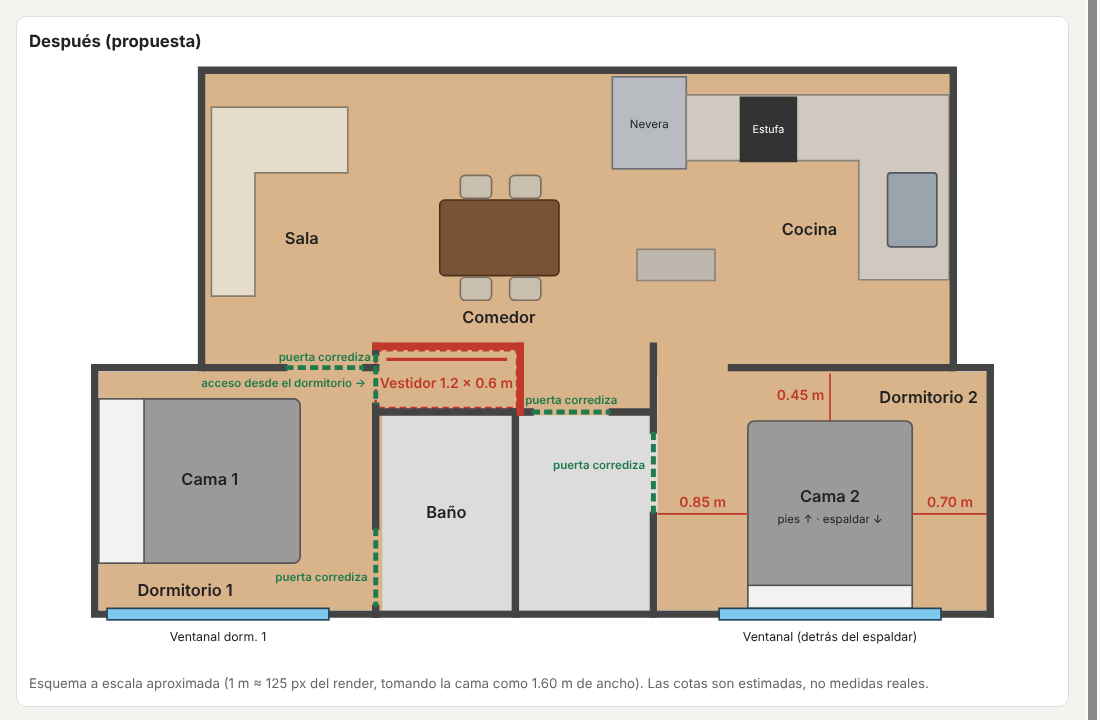
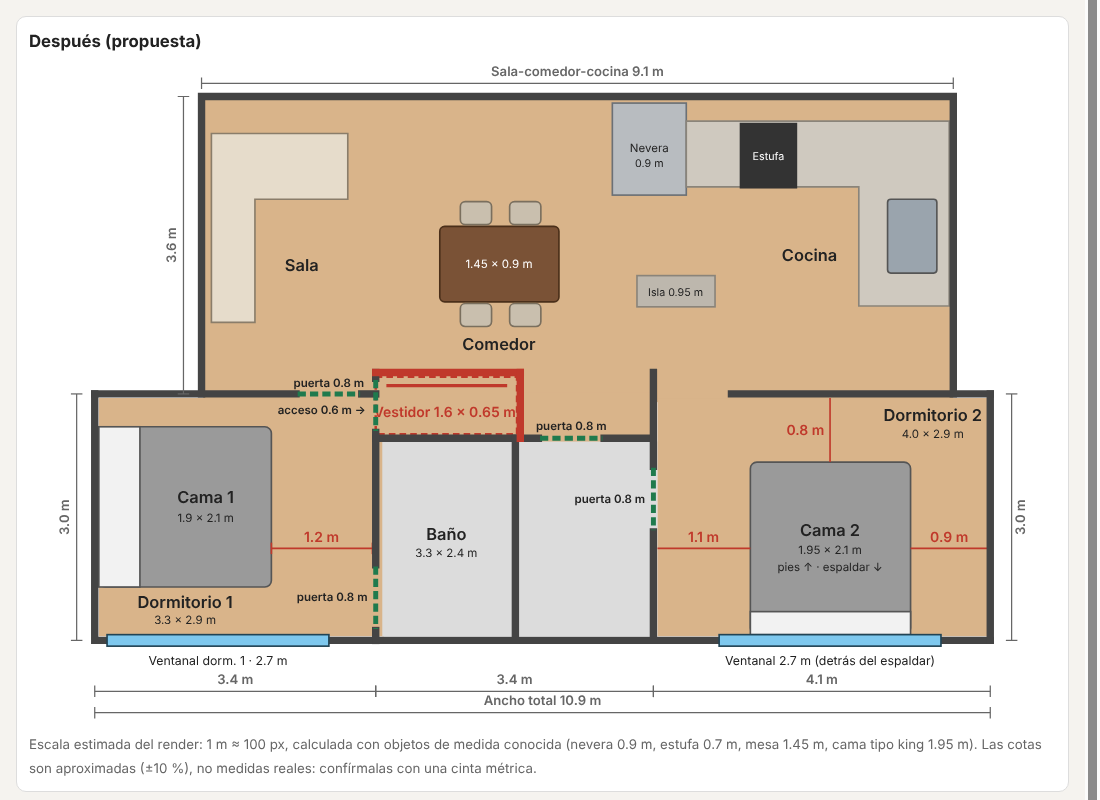
Recalibrar escala (1 m ≈ 100 px) y agregar cotas a la planta completa
Claude-Session: https://claude.ai/code/session_01FjBeNf4WjH2KP9gBJAno4x

diff --git a/index.html b/index.html
@@ -34,6 +34,8 @@
   .newwall { stroke: var(--new); stroke-width: 9; stroke-linecap: square; fill: none; }
   .dim { stroke: var(--new); stroke-width: 2; fill: none; }
   .dimt { fill: var(--new); font-size: 17px; font-weight: 600; }
+  .dm { stroke: var(--muted); stroke-width: 1.5; fill: none; }
+  .dmt { fill: var(--muted); font-size: 16px; font-weight: 600; stroke: none; }
   .lbl { font-size: 20px; font-weight: 600; }
 </style>
 </head>
@@ -49,15 +51,20 @@
 
   <section class="card">
     <h2>Después (propuesta)</h2>
-    <svg viewBox="40 40 1250 740" role="img" aria-label="Propuesta de distribución de dormitorios 1 y 2">
-      <!-- Sala/comedor (zona abierta, referencia) -->
+    <svg viewBox="40 8 1250 815" role="img" aria-label="Planta completa con la propuesta de distribución">
+      <!-- Pisos -->
       <rect x="252" y="54" width="913" height="368" fill="var(--floor)"/>
       <rect x="462" y="410" width="338" height="64" fill="var(--floor)"/>
+      <rect x="125" y="417" width="347" height="290" fill="var(--floor)"/>
+      <rect x="470" y="470" width="335" height="237" fill="var(--bath)"/>
+      <rect x="805" y="417" width="402" height="290" fill="var(--floor)"/>
+
       <!-- Sala: sofá en L -->
       <path d="M262 95 H428 V175 H315 V325 H262 Z" fill="#e6dccb" stroke="#8a7d6a" stroke-width="2"/>
       <text x="372" y="262" text-anchor="middle" class="lbl">Sala</text>
       <!-- Comedor -->
       <rect x="540" y="208" width="145" height="92" rx="6" fill="#7a5236" stroke="#4a2f1a" stroke-width="2"/>
+      <text x="612" y="259" text-anchor="middle" font-size="14" style="fill:#fff">1.45 × 0.9 m</text>
       <rect x="565" y="178" width="38" height="28" rx="6" fill="#c9bfae" stroke="#7a6f5e" stroke-width="2"/>
       <rect x="625" y="178" width="38" height="28" rx="6" fill="#c9bfae" stroke="#7a6f5e" stroke-width="2"/>
       <rect x="565" y="302" width="38" height="28" rx="6" fill="#c9bfae" stroke="#7a6f5e" stroke-width="2"/>
@@ -65,112 +72,118 @@
       <text x="612" y="358" text-anchor="middle" class="lbl">Comedor</text>
       <!-- Cocina -->
       <rect x="750" y="58" width="90" height="112" fill="#b8bcc0" stroke="#6b7076" stroke-width="2"/>
-      <text x="795" y="120" text-anchor="middle" font-size="14">Nevera</text>
+      <text x="795" y="118" text-anchor="middle" font-size="14">Nevera</text>
+      <text x="795" y="136" text-anchor="middle" font-size="13">0.9 m</text>
       <path d="M840 80 H1160 V305 H1050 V160 H840 Z" fill="#cfc9bf" stroke="#8a847a" stroke-width="2"/>
       <rect x="905" y="82" width="70" height="80" fill="#333"/>
       <text x="940" y="127" text-anchor="middle" font-size="13" style="fill:#fff">Estufa</text>
       <rect x="1085" y="175" width="60" height="90" rx="4" fill="#9aa4ad" stroke="#555" stroke-width="2"/>
       <rect x="780" y="268" width="95" height="38" fill="#bdb7ad" stroke="#8a847a" stroke-width="2"/>
+      <text x="827" y="293" text-anchor="middle" font-size="13">Isla 0.95 m</text>
       <text x="990" y="250" text-anchor="middle" class="lbl">Cocina</text>
 
       <!-- Dormitorio 1 -->
-      <rect x="125" y="417" width="347" height="290" fill="var(--floor)"/>
-      <!-- Vestidor (nuevo) -->
       <rect x="462" y="391" width="172" height="70" fill="var(--floor)"/>
       <rect x="462" y="391" width="172" height="70" fill="none" stroke="var(--new)" stroke-width="3" stroke-dasharray="8 5"/>
-      <!-- barra de colgar y repisa -->
       <line x1="475" y1="402" x2="622" y2="402" stroke="var(--new)" stroke-width="4"/>
-      <text x="548" y="437" text-anchor="middle" class="dimt">Vestidor 1.2 × 0.6 m</text>
-      <!-- Cama 1 (sin cambios) -->
-      <rect x="125" y="450" width="245" height="200" rx="8" fill="#9a9a9a" stroke="#555" stroke-width="2"/>
-      <rect x="125" y="450" width="55" height="200" fill="#f2f2f2" stroke="#555" stroke-width="2"/>
-      <text x="260" y="555" text-anchor="middle" class="lbl">Cama 1</text>
-      <text x="230" y="690" text-anchor="middle" class="lbl">Dormitorio 1</text>
+      <text x="546" y="440" text-anchor="middle" class="dimt" font-size="12">Vestidor 1.6 × 0.65 m</text>
+      <rect x="125" y="452" width="210" height="195" rx="8" fill="#9a9a9a" stroke="#555" stroke-width="2"/>
+      <rect x="125" y="452" width="50" height="195" fill="#f2f2f2" stroke="#555" stroke-width="2"/>
+      <text x="255" y="545" text-anchor="middle" class="lbl">Cama 1</text>
+      <text x="255" y="568" text-anchor="middle" font-size="14">1.9 × 2.1 m</text>
+      <text x="230" y="672" text-anchor="middle" class="lbl">Dormitorio 1</text>
+      <text x="230" y="692" text-anchor="middle" font-size="14">3.3 × 2.9 m</text>
+      <line x1="335" y1="600" x2="458" y2="600" class="dim"/>
+      <line x1="335" y1="593" x2="335" y2="607" class="dim"/><line x1="458" y1="593" x2="458" y2="607" class="dim"/>
+      <text x="396" y="592" text-anchor="middle" class="dimt" font-size="15">1.2 m</text>
 
       <!-- Baño -->
-      <rect x="470" y="470" width="335" height="237" fill="var(--bath)"/>
-      <text x="548" y="595" text-anchor="middle" class="lbl">Baño</text>
+      <text x="548" y="590" text-anchor="middle" class="lbl">Baño</text>
+      <text x="548" y="611" text-anchor="middle" font-size="14">3.3 × 2.4 m</text>
 
-      <!-- Dormitorio 2 -->
-      <rect x="805" y="417" width="402" height="290" fill="var(--floor)"/>
-      <!-- Cama 2 girada: espaldar abajo (ventanal) -->
-      <rect x="915" y="477" width="200" height="228" rx="8" fill="#9a9a9a" stroke="#555" stroke-width="2"/>
-      <rect x="915" y="677" width="200" height="28" fill="#f2f2f2" stroke="#555" stroke-width="2"/>
-      <text x="1015" y="575" text-anchor="middle" class="lbl">Cama 2</text>
-      <text x="1015" y="601" text-anchor="middle" font-size="14">pies ↑ · espaldar ↓</text>
-      <text x="1135" y="455" text-anchor="middle" class="lbl">Dormitorio 2</text>
+      <!-- Dormitorio 2: cama girada, espaldar hacia el ventanal -->
+      <rect x="918" y="495" width="195" height="210" rx="8" fill="#9a9a9a" stroke="#555" stroke-width="2"/>
+      <rect x="918" y="677" width="195" height="28" fill="#f2f2f2" stroke="#555" stroke-width="2"/>
+      <text x="1015" y="585" text-anchor="middle" class="lbl">Cama 2</text>
+      <text x="1015" y="607" text-anchor="middle" font-size="14">1.95 × 2.1 m</text>
+      <text x="1015" y="628" text-anchor="middle" font-size="14">pies ↑ · espaldar ↓</text>
+      <text x="1140" y="445" text-anchor="middle" class="lbl">Dormitorio 2</text>
+      <text x="1140" y="466" text-anchor="middle" font-size="14">4.0 × 2.9 m</text>
+      <line x1="805" y1="600" x2="918" y2="600" class="dim"/><line x1="1113" y1="600" x2="1207" y2="600" class="dim"/>
+      <text x="861" y="592" text-anchor="middle" class="dimt">1.1 m</text>
+      <text x="1160" y="592" text-anchor="middle" class="dimt">0.9 m</text>
+      <line x1="1015" y1="417" x2="1015" y2="495" class="dim"/>
+      <text x="1008" y="462" text-anchor="end" class="dimt" font-size="15">0.8 m</text>
 
-      <!-- Cotas dormitorio 2 -->
-      <g>
-        <line x1="805" y1="590" x2="915" y2="590" class="dim"/>
-        <text x="860" y="582" text-anchor="middle" class="dimt">0.85 m</text>
-        <line x1="1115" y1="590" x2="1207" y2="590" class="dim"/>
-        <text x="1161" y="582" text-anchor="middle" class="dimt">0.70 m</text>
-        <line x1="1015" y1="419" x2="1015" y2="477" class="dim"/>
-        <text x="1008" y="452" text-anchor="end" class="dimt" font-size="15">0.45 m</text>
-      </g>
-
-      <!-- Paredes (esquema) -->
+      <!-- Paredes -->
       <g class="wall">
         <polyline points="250,412 250,50 1165,50 1165,412"/>
-        <!-- dormitorio 1: izquierda, arriba, abajo -->
         <polyline points="120,412 120,712 462,712"/>
-        <line x1="120" y1="412" x2="350" y2="412"/>
-        <line x1="450" y1="412" x2="462" y2="412"/>
-        <!-- pared dorm1 / baño: se conserva solo el tramo bajo el hueco del vestidor -->
+        <line x1="120" y1="412" x2="365" y2="412"/>
+        <line x1="445" y1="412" x2="462" y2="412"/>
         <line x1="462" y1="386" x2="462" y2="393"/>
-        <line x1="462" y1="459" x2="462" y2="605"/>
-        <line x1="462" y1="705" x2="462" y2="712"/>
-        <!-- muro superior del baño -->
-        <line x1="462" y1="466" x2="650" y2="466"/>
-        <line x1="750" y1="466" x2="795" y2="466"/>
-        <!-- divisor del baño -->
+        <line x1="462" y1="459" x2="462" y2="620"/>
+        <line x1="462" y1="700" x2="462" y2="712"/>
+        <line x1="462" y1="466" x2="660" y2="466"/>
+        <line x1="740" y1="466" x2="795" y2="466"/>
         <line x1="632" y1="466" x2="632" y2="712"/>
-        <!-- pared baño / dormitorio 2 -->
-        <line x1="800" y1="386" x2="800" y2="488"/>
-        <line x1="800" y1="592" x2="800" y2="712"/>
+        <line x1="800" y1="386" x2="800" y2="500"/>
+        <line x1="800" y1="580" x2="800" y2="712"/>
         <line x1="462" y1="712" x2="1210" y2="712"/>
-        <!-- dormitorio 2: derecha y arriba (con entrada 805-895) -->
         <line x1="1210" y1="412" x2="1210" y2="712"/>
         <line x1="895" y1="412" x2="1210" y2="412"/>
       </g>
-      <!-- Acceso al vestidor desde la sala (puerta corrediza) -->
-      <line x1="462" y1="395" x2="462" y2="457" stroke="var(--ok)" stroke-width="6" stroke-dasharray="10 5"/>
-      <text x="450" y="436" text-anchor="end" font-size="14" font-weight="600" style="fill:var(--ok)">acceso desde el dormitorio →</text>
-      <!-- Paredes nuevas del vestidor -->
       <g class="newwall">
         <line x1="462" y1="386" x2="638" y2="386"/>
         <line x1="638" y1="386" x2="638" y2="466"/>
       </g>
 
-      <!-- Ventanales -->
+      <!-- Ventanales (2.7 m) -->
       <rect x="880" y="705" width="270" height="14" fill="#7ec8ee" stroke="#245" stroke-width="2"/>
-      <text x="1015" y="745" text-anchor="middle" font-size="15">Ventanal (detrás del espaldar)</text>
+      <text x="1015" y="742" text-anchor="middle" font-size="15">Ventanal 2.7 m (detrás del espaldar)</text>
       <rect x="135" y="705" width="270" height="14" fill="#7ec8ee" stroke="#245" stroke-width="2"/>
-      <text x="270" y="745" text-anchor="middle" font-size="15">Ventanal dorm. 1</text>
+      <text x="270" y="742" text-anchor="middle" font-size="15">Ventanal dorm. 1 · 2.7 m</text>
 
-      <!-- Puertas corredizas -->
-      <line x1="352" y1="412" x2="448" y2="412" stroke="var(--ok)" stroke-width="6" stroke-dasharray="10 5"/>
-      <text x="400" y="404" text-anchor="middle" font-size="14" font-weight="600" style="fill:var(--ok)">puerta corrediza</text>
-      <line x1="652" y1="466" x2="748" y2="466" stroke="var(--ok)" stroke-width="6" stroke-dasharray="10 5"/>
-      <text x="700" y="456" text-anchor="middle" font-size="14" font-weight="600" style="fill:var(--ok)">puerta corrediza</text>
-      <line x1="462" y1="607" x2="462" y2="703" stroke="var(--ok)" stroke-width="6" stroke-dasharray="10 5"/>
-      <text x="452" y="672" text-anchor="end" font-size="14" font-weight="600" style="fill:var(--ok)">puerta corrediza</text>
-      <line x1="800" y1="490" x2="800" y2="590" stroke="var(--ok)" stroke-width="6" stroke-dasharray="10 5"/>
-      <text x="790" y="535" text-anchor="end" font-size="14" font-weight="600" style="fill:var(--ok)">puerta corrediza</text>
+      <!-- Puertas corredizas (0.8 m) -->
+      <g stroke="var(--ok)" stroke-width="6" stroke-dasharray="10 5">
+        <line x1="367" y1="412" x2="443" y2="412"/>
+        <line x1="662" y1="466" x2="738" y2="466"/>
+        <line x1="462" y1="622" x2="462" y2="698"/>
+        <line x1="800" y1="502" x2="800" y2="578"/>
+        <line x1="462" y1="395" x2="462" y2="457"/>
+      </g>
+      <g font-size="14" font-weight="600" style="fill:var(--ok)">
+        <text x="405" y="404" text-anchor="middle">puerta 0.8 m</text>
+        <text x="700" y="456" text-anchor="middle">puerta 0.8 m</text>
+        <text x="452" y="664" text-anchor="end">puerta 0.8 m</text>
+        <text x="790" y="545" text-anchor="end">puerta 0.8 m</text>
+        <text x="450" y="436" text-anchor="end">acceso 0.6 m →</text>
+      </g>
+
+      <!-- Cotas generales -->
+      <g>
+      <line x1="250" y1="34" x2="1165" y2="34" class="dm"/><line x1="250" y1="27" x2="250" y2="41" class="dm"/><line x1="1165" y1="27" x2="1165" y2="41" class="dm"/><text x="707.5" y="25" text-anchor="middle" class="dmt">Sala-comedor-cocina 9.1 m</text>
+      <line x1="228" y1="50" x2="228" y2="412" class="dm"/><line x1="221" y1="50" x2="235" y2="50" class="dm"/><line x1="221" y1="412" x2="235" y2="412" class="dm"/><text transform="translate(219,231.0) rotate(-90)" text-anchor="middle" class="dmt">3.6 m</text>
+      <line x1="98" y1="412" x2="98" y2="712" class="dm"/><line x1="91" y1="412" x2="105" y2="412" class="dm"/><line x1="91" y1="712" x2="105" y2="712" class="dm"/><text transform="translate(89,562.0) rotate(-90)" text-anchor="middle" class="dmt">3.0 m</text>
+      <line x1="1236" y1="412" x2="1236" y2="712" class="dm"/><line x1="1229" y1="412" x2="1243" y2="412" class="dm"/><line x1="1229" y1="712" x2="1243" y2="712" class="dm"/><text transform="translate(1252,562.0) rotate(-90)" text-anchor="middle" class="dmt">3.0 m</text>
+      <line x1="120" y1="774" x2="462" y2="774" class="dm"/><line x1="120" y1="767" x2="120" y2="781" class="dm"/><line x1="462" y1="767" x2="462" y2="781" class="dm"/><text x="291.0" y="765" text-anchor="middle" class="dmt">3.4 m</text>
+      <line x1="462" y1="774" x2="800" y2="774" class="dm"/><line x1="462" y1="767" x2="462" y2="781" class="dm"/><line x1="800" y1="767" x2="800" y2="781" class="dm"/><text x="631.0" y="765" text-anchor="middle" class="dmt">3.4 m</text>
+      <line x1="800" y1="774" x2="1210" y2="774" class="dm"/><line x1="800" y1="767" x2="800" y2="781" class="dm"/><line x1="1210" y1="767" x2="1210" y2="781" class="dm"/><text x="1005.0" y="765" text-anchor="middle" class="dmt">4.1 m</text>
+      <line x1="120" y1="800" x2="1210" y2="800" class="dm"/><line x1="120" y1="793" x2="120" y2="807" class="dm"/><line x1="1210" y1="793" x2="1210" y2="807" class="dm"/><text x="665.0" y="791" text-anchor="middle" class="dmt">Ancho total 10.9 m</text>
+      </g>
     </svg>
-    <small>Esquema a escala aproximada (1 m ≈ 125 px del render, tomando la cama como 1.60 m de ancho). Las cotas son estimadas, no medidas reales.</small>
+    <small>Escala estimada del render: 1 m ≈ 100 px, calculada con objetos de medida conocida (nevera 0.9 m, estufa 0.7 m, mesa 1.45 m, cama tipo king 1.95 m). Las cotas son aproximadas (±10 %), no medidas reales: confírmalas con una cinta métrica.</small>
   </section>
 
   <section class="card">
     <h2>Qué cambia y qué revisar</h2>
     <ul>
-      <li><b>Dormitorio 2:</b> cama en vertical, espaldar contra la pared del ventanal. Deja <span class="ok">~0.85 m</span> libres hacia la entrada, <span class="ok">~0.70 m</span> al lado derecho y <span class="ok">~0.45 m</span> a los pies. Cabe, pero sin espacio para mesa de noche cómoda en ambos lados.</li>
-      <li><b>Ventanal:</b> mide más ancho que la cama (≈2.1 m contra 1.6 m), así que queda abierto a cada lado del espaldar. Si el alféizar es bajo, el espaldar lo tapa en el centro y hay que elegir un espaldar bajo o poner la cama separada unos centímetros.</li>
-      <li><b>Dormitorio 1:</b> el hueco sobre el baño pasa a ser un vestidor de <span class="tag">~1.2 × 0.6 m</span> (profundidad estándar de armario), cerrado hacia la sala con muro nuevo. Solo se abre <span class="tag">un hueco de ~0.5 m</span> en la pared del dormitorio para dar acceso; el resto de esa pared se conserva.</li>
-      <li><b>Límite del acceso:</b> el hueco solo puede medir lo que mide la profundidad del vestidor (~0.5–0.6 m), por debajo de una puerta normal (0.7–0.8 m). Sirve como armario con puertas corredizas o cortina, pero no para entrar caminando. Para entrar hay que hacerlo más profundo o ampliar el hueco, lo que implica quitar más pared.</li>
+      <li><b>Dormitorio 2 (4.0 × 2.9 m):</b> cama king (~1.95 × 2.1 m) en vertical, espaldar contra el ventanal. Deja <span class="ok">~1.1 m</span> hacia la entrada, <span class="ok">~0.9 m</span> al lado derecho y <span class="ok">~0.8 m</span> a los pies. Cabe con mesas de noche a ambos lados.</li>
+      <li><b>Ventanal (~2.7 m):</b> es más ancho que la cama (~1.95 m), así que queda libre unos 0.4 m a cada lado del espaldar. Si el alféizar es bajo, el espaldar tapa el centro del vidrio: conviene un espaldar bajo o separar la cama unos centímetros.</li>
+      <li><b>Dormitorio 1 (3.3 × 2.9 m):</b> el hueco sobre el baño pasa a ser un vestidor de <span class="tag">~1.6 × 0.65 m</span> (profundidad estándar de armario), cerrado hacia la sala con muro nuevo. Solo se abre <span class="tag">un hueco de ~0.6 m</span> en la pared del dormitorio para dar acceso; el resto de esa pared se conserva.</li>
+      <li><b>Límite del acceso:</b> el hueco solo puede medir lo que mide la profundidad del vestidor (~0.65 m), por debajo de una puerta normal (0.8 m). Sirve como armario con puertas corredizas o cortina, pero no para entrar caminando. Para entrar hay que hacerlo más profundo o ampliar el hueco, lo que implica quitar más pared.</li>
       <li><b>Por confirmar:</b> si esa pared es estructural, revisarla con un ingeniero antes de abrir el hueco.</li>
-      <li><b>Puertas corredizas (0.8 m), cuatro en total:</b> dormitorio 1 → sala (pared superior), dormitorio 1 → baño (pared lateral, cerca de la ventana), baño → sala (pared superior del baño) y baño → dormitorio 2. La del dormitorio 2 da al pasillo libre de ~0.85 m junto a la cama. Las corredizas no necesitan espacio de apertura, pero necesitan ~0.8 m de pared libre a un lado para correr.</li>
+      <li><b>Puertas corredizas (0.8 m), cuatro en total:</b> dormitorio 1 → sala (pared superior), dormitorio 1 → baño (pared lateral, cerca de la ventana), baño → sala (pared superior del baño) y baño → dormitorio 2. La del dormitorio 2 da al pasillo de ~1.1 m junto a la cama. Entre la cama 1 y la pared del baño quedan ~1.2 m. Las corredizas no necesitan espacio de apertura, pero sí ~0.8 m de pared libre a un lado para correr.</li>
     </ul>
   </section>
 </main>
